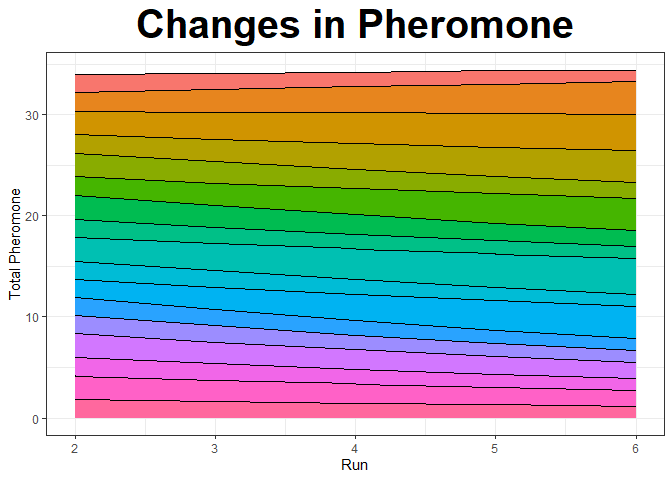
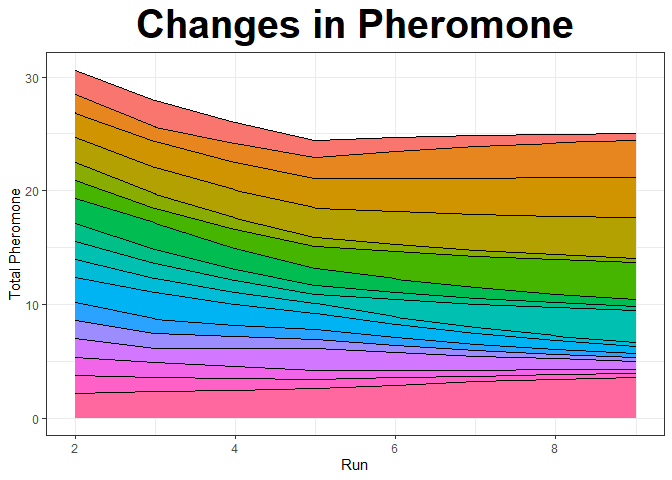
final

diff --git a/p07/p07.md b/p07/p07.md
@@ -52,33 +52,37 @@ list.items <-
 
 abilityShortForm <- antcolony.lavaan(
   data = ant,
-  ants = 20, evaporation = 0.9, antModel = antModel,
+  ants = 20, evaporation = 0.8, antModel = antModel,
   list.items = list.items, full = 17, i.per.f = 6,
   factors = "Belong", steps = 50, fit.indices = c("cfi", "tli", "rmsea", "srmr"),
   fit.statistics.test = "(cfi > 0.95)&(tli > 0.95)&(rmsea < 0.06)&(srmr<0.08)",  
                    max.run = 1000)
 ```
 
-    ##  Run number 1 and ant number 1.            Run number 1 and ant number 2.            Run number 1 and ant number 3.            Run number 1 and ant number 4.            Run number 1 and ant number 5.            Run number 1 and ant number 6.            Run number 1 and ant number 7.            Run number 1 and ant number 8.            Run number 1 and ant number 9.            Run number 1 and ant number 10.            Run number 1 and ant number 11.            Run number 1 and ant number 12.            Run number 1 and ant number 13.            Run number 1 and ant number 14.            Run number 1 and ant number 15.            Run number 1 and ant number 16.            Run number 1 and ant number 17.            Run number 1 and ant number 18.            Run number 1 and ant number 19.            Run number 1 and ant number 20.            Run number 2 and ant number 1.            Run number 2 and ant number 2.            Run number 2 and ant number 3.            Run number 2 and ant number 4.            Run number 2 and ant number 5.            Run number 2 and ant number 6.            Run number 2 and ant number 7.            Run number 2 and ant number 8.            Run number 2 and ant number 9.            Run number 2 and ant number 10.            Run number 2 and ant number 11.            Run number 2 and ant number 12.            Run number 2 and ant number 13.            Run number 2 and ant number 14.            Run number 2 and ant number 15.            Run number 2 and ant number 16.            Run number 2 and ant number 17.            Run number 2 and ant number 18.            Run number 2 and ant number 19.            Run number 2 and ant number 20.            Run number 3 and ant number 1.            Run number 3 and ant number 2.            Run number 3 and ant number 3.            Run number 3 and ant number 4.            Run number 3 and ant number 5.            Run number 3 and ant number 6.            Run number 3 and ant number 7.            Run number 3 and ant number 8.            Run number 3 and ant number 9.            Run number 3 and ant number 10.            Run number 3 and ant number 11.            Run number 3 and ant number 12.            Run number 3 and ant number 13.            Run number 3 and ant number 14.            Run number 3 and ant number 15.            Run number 3 and ant number 16.            Run number 3 and ant number 17.            Run number 3 and ant number 18.            Run number 3 and ant number 19.            Run number 3 and ant number 20.            Run number 4 and ant number 1.            Run number 4 and ant number 2.            Run number 4 and ant number 3.            Run number 4 and ant number 4.            Run number 4 and ant number 5.            Run number 4 and ant number 6.            Run number 4 and ant number 7.            Run number 4 and ant number 8.            Run number 4 and ant number 9.            Run number 4 and ant number 10.            Run number 4 and ant number 11.            Run number 4 and ant number 12.            Run number 4 and ant number 13.            Run number 4 and ant number 14.            Run number 4 and ant number 15.            Run number 4 and ant number 16.            Run number 4 and ant number 17.            Run number 4 and ant number 18.            Run number 4 and ant number 19.            Run number 4 and ant number 20.            Run number 5 and ant number 1.            Run number 5 and ant number 2.            Run number 5 and ant number 3.            Run number 5 and ant number 4.            Run number 5 and ant number 5.            Run number 5 and ant number 6.            Run number 5 and ant number 7.            Run number 5 and ant number 8.            Run number 5 and ant number 9.            Run number 5 and ant number 10.            Run number 5 and ant number 11.            Run number 5 and ant number 12.            Run number 5 and ant number 13.            Run number 5 and ant number 14.            Run number 5 and ant number 15.            Run number 5 and ant number 16.            Run number 5 and ant number 17.            Run number 5 and ant number 18.            Run number 5 and ant number 19.            Run number 5 and ant number 20.           [1] "Compiling results."
+    ##  Run number 1 and ant number 1.            Run number 1 and ant number 2.            Run number 1 and ant number 3.            Run number 1 and ant number 4.            Run number 1 and ant number 5.            Run number 1 and ant number 6.            Run number 1 and ant number 7.            Run number 1 and ant number 8.            Run number 1 and ant number 9.            Run number 1 and ant number 10.            Run number 1 and ant number 11.            Run number 1 and ant number 12.            Run number 1 and ant number 13.            Run number 1 and ant number 14.            Run number 1 and ant number 15.            Run number 1 and ant number 16.            Run number 1 and ant number 17.            Run number 1 and ant number 18.            Run number 1 and ant number 19.            Run number 1 and ant number 20.            Run number 2 and ant number 1.            Run number 2 and ant number 2.            Run number 2 and ant number 3.            Run number 2 and ant number 4.            Run number 2 and ant number 5.            Run number 2 and ant number 6.            Run number 2 and ant number 7.            Run number 2 and ant number 8.            Run number 2 and ant number 9.            Run number 2 and ant number 10.            Run number 2 and ant number 11.            Run number 2 and ant number 12.            Run number 2 and ant number 13.            Run number 2 and ant number 14.            Run number 2 and ant number 15.            Run number 2 and ant number 16.            Run number 2 and ant number 17.            Run number 2 and ant number 18.            Run number 2 and ant number 19.            Run number 2 and ant number 20.            Run number 3 and ant number 1.            Run number 3 and ant number 2.            Run number 3 and ant number 3.            Run number 3 and ant number 4.            Run number 3 and ant number 5.            Run number 3 and ant number 6.            Run number 3 and ant number 7.            Run number 3 and ant number 8.            Run number 3 and ant number 9.            Run number 3 and ant number 10.            Run number 3 and ant number 11.            Run number 3 and ant number 12.            Run number 3 and ant number 13.            Run number 3 and ant number 14.            Run number 3 and ant number 15.            Run number 3 and ant number 16.            Run number 3 and ant number 17.            Run number 3 and ant number 18.            Run number 3 and ant number 19.            Run number 3 and ant number 20.            Run number 4 and ant number 1.            Run number 4 and ant number 2.            Run number 4 and ant number 3.            Run number 4 and ant number 4.            Run number 4 and ant number 5.            Run number 4 and ant number 6.            Run number 4 and ant number 7.            Run number 4 and ant number 8.            Run number 4 and ant number 9.            Run number 4 and ant number 10.            Run number 4 and ant number 11.            Run number 4 and ant number 12.            Run number 4 and ant number 13.            Run number 4 and ant number 14.            Run number 4 and ant number 15.            Run number 4 and ant number 16.            Run number 4 and ant number 17.            Run number 4 and ant number 18.            Run number 4 and ant number 19.            Run number 4 and ant number 20.            Run number 5 and ant number 1.            Run number 5 and ant number 2.            Run number 5 and ant number 3.            Run number 5 and ant number 4.            Run number 5 and ant number 5.            Run number 5 and ant number 6.            Run number 5 and ant number 7.            Run number 5 and ant number 8.            Run number 5 and ant number 9.            Run number 5 and ant number 10.            Run number 5 and ant number 11.            Run number 5 and ant number 12.            Run number 5 and ant number 13.            Run number 5 and ant number 14.            Run number 5 and ant number 15.            Run number 5 and ant number 16.            Run number 5 and ant number 17.            Run number 5 and ant number 18.            Run number 5 and ant number 19.            Run number 5 and ant number 20.            Run number 6 and ant number 1.            Run number 6 and ant number 2.            Run number 6 and ant number 3.            Run number 6 and ant number 4.            Run number 6 and ant number 5.            Run number 6 and ant number 6.            Run number 6 and ant number 7.            Run number 6 and ant number 8.            Run number 6 and ant number 9.            Run number 6 and ant number 10.            Run number 6 and ant number 11.            Run number 6 and ant number 12.            Run number 6 and ant number 13.            Run number 6 and ant number 14.            Run number 6 and ant number 15.            Run number 6 and ant number 16.            Run number 6 and ant number 17.            Run number 6 and ant number 18.            Run number 6 and ant number 19.            Run number 6 and ant number 20.            Run number 7 and ant number 1.            Run number 7 and ant number 2.            Run number 7 and ant number 3.            Run number 7 and ant number 4.            Run number 7 and ant number 5.            Run number 7 and ant number 6.            Run number 7 and ant number 7.            Run number 7 and ant number 8.            Run number 7 and ant number 9.            Run number 7 and ant number 10.            Run number 7 and ant number 11.            Run number 7 and ant number 12.            Run number 7 and ant number 13.            Run number 7 and ant number 14.            Run number 7 and ant number 15.            Run number 7 and ant number 16.            Run number 7 and ant number 17.            Run number 7 and ant number 18.            Run number 7 and ant number 19.            Run number 7 and ant number 20.            Run number 8 and ant number 1.            Run number 8 and ant number 2.            Run number 8 and ant number 3.            Run number 8 and ant number 4.            Run number 8 and ant number 5.            Run number 8 and ant number 6.            Run number 8 and ant number 7.            Run number 8 and ant number 8.            Run number 8 and ant number 9.            Run number 8 and ant number 10.            Run number 8 and ant number 11.            Run number 8 and ant number 12.            Run number 8 and ant number 13.            Run number 8 and ant number 14.            Run number 8 and ant number 15.            Run number 8 and ant number 16.            Run number 8 and ant number 17.            Run number 8 and ant number 18.            Run number 8 and ant number 19.            Run number 8 and ant number 20.           [1] "Compiling results."
 
 ``` r
 abilityShortForm
 ```
 
     ## Algorithm: Ant Colony Optimization
-    ## Total Run Time: 16.511 secs
+    ## Total Run Time: 18.992 secs
     ## 
     ## Function call:
-    ## antcolony.lavaan(data = ant, ants = 20, evaporation = 0.9, antModel = antModel,
+    ## antcolony.lavaan(data = ant, ants = 20, evaporation = 0.8, antModel = antModel,
     ##   list.items = list.items, full = 17, i.per.f = 6, factors = "Belong", steps
     ##   = 50, fit.indices = c("cfi", "tli", "rmsea", "srmr"), fit.statistics.test =
     ##   "(cfi > 0.95)&(tli > 0.95)&(rmsea < 0.06)&(srmr<0.08)", max.run = 1000)
     ## 
     ## Final Model Syntax:
-    ## Belong =~ Bi24 + Bi11 + Bi15 + Bi12 + Bi27 + Bi17
+    ## Belong =~ BiBPS + Bi15 + Bi11 + Bi24 + Bi12 + Bi17
 
 ``` r
 plot(abilityShortForm, type = 'pheromone')
 ```
 
-![](p07_files/figure-gfm/unnamed-chunk-2-1.png)<!-- -->
+![](p07_files/figure-gfm/unnamed-chunk-2-1.png)<!-- --> Conclusion: I
+still don’t quite understand how to set up all the parameters. And not
+sure whether this method is superior than traditional psychometric
+approaches. But 5 out of the resulting 6 items are the same as what we
+got by using CFA & IRT.
